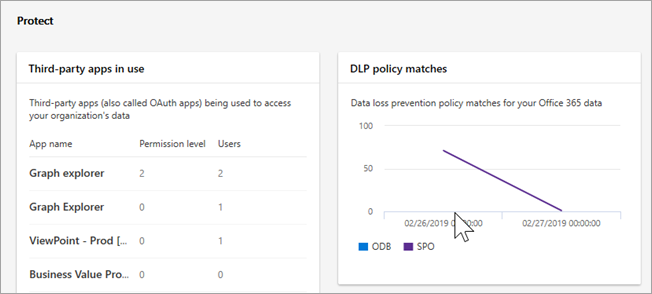
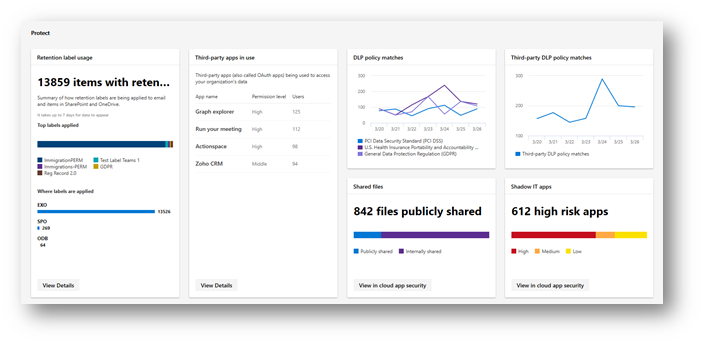
compliance center updates

diff --git a/SecurityCompliance/microsoft-365-compliance-center.md b/SecurityCompliance/microsoft-365-compliance-center.md
@@ -6,7 +6,7 @@ manager: laurawi
 ms.date: 03/27/2019
 ms.audience: ITPro
 ms.topic: article
-ms.service: o365-administration
+ms.service: o365-seccomp
 localization_priority: Normal
 description: "Learn about the new Microsoft 365 compliance center, including what it contains, how to get it, and your next steps."
 ---
@@ -39,7 +39,7 @@ You'll see additional cards, such as one showing your organization's cloud app c
 
 ## The Protect section
 
-The **Protect** section on the home page contains cards that provide you with high-level information about data loss prevention (DLP), third-party apps in use, shared files, shadow IT apps, and so on. 
+The **Protect** section on the home page contains cards that provide you with high-level information about labels, data loss prevention (DLP), third-party apps in use, shared files, shadow IT apps, and so on. 
 
 ![Protect section in the Microsoft 365 compliance center](media/m365-compliance-center-protect.png)
 
@@ -51,7 +51,7 @@ The **Respond** section on the home page surfaces alerts that you'll want to rev
 
 ![Respond section in the Microsoft 365 compliance center](media/m365-compliance-center-respond.png)
 
-cards, such as the Active alerts card, include a link to a report where you can view more detailed information, such as Severity, Status, Category, and more.
+Cards, such as the Active alerts card, include a link to a report where you can view more detailed information, such as Severity, Status, Category, and more.
 
 ![Active alerts details](media/m365-compliance-center-alerts-details.png) 
 

diff --git a/SecurityCompliance/ciso-workshop.md b/SecurityCompliance/ciso-workshop.md
@@ -5,7 +5,7 @@ author: robmazz
 manager: laurawi
 ms.audience: Admin
 ms.topic: tutorial
-ms.service: o365-administration
+ms.service: o365-seccomp
 localization_priority: Normal
 ms.collection: Strat_O365_IP
 description: "Learn more about security principles, established best practices, and emerging best practices for modernizing your organization."
